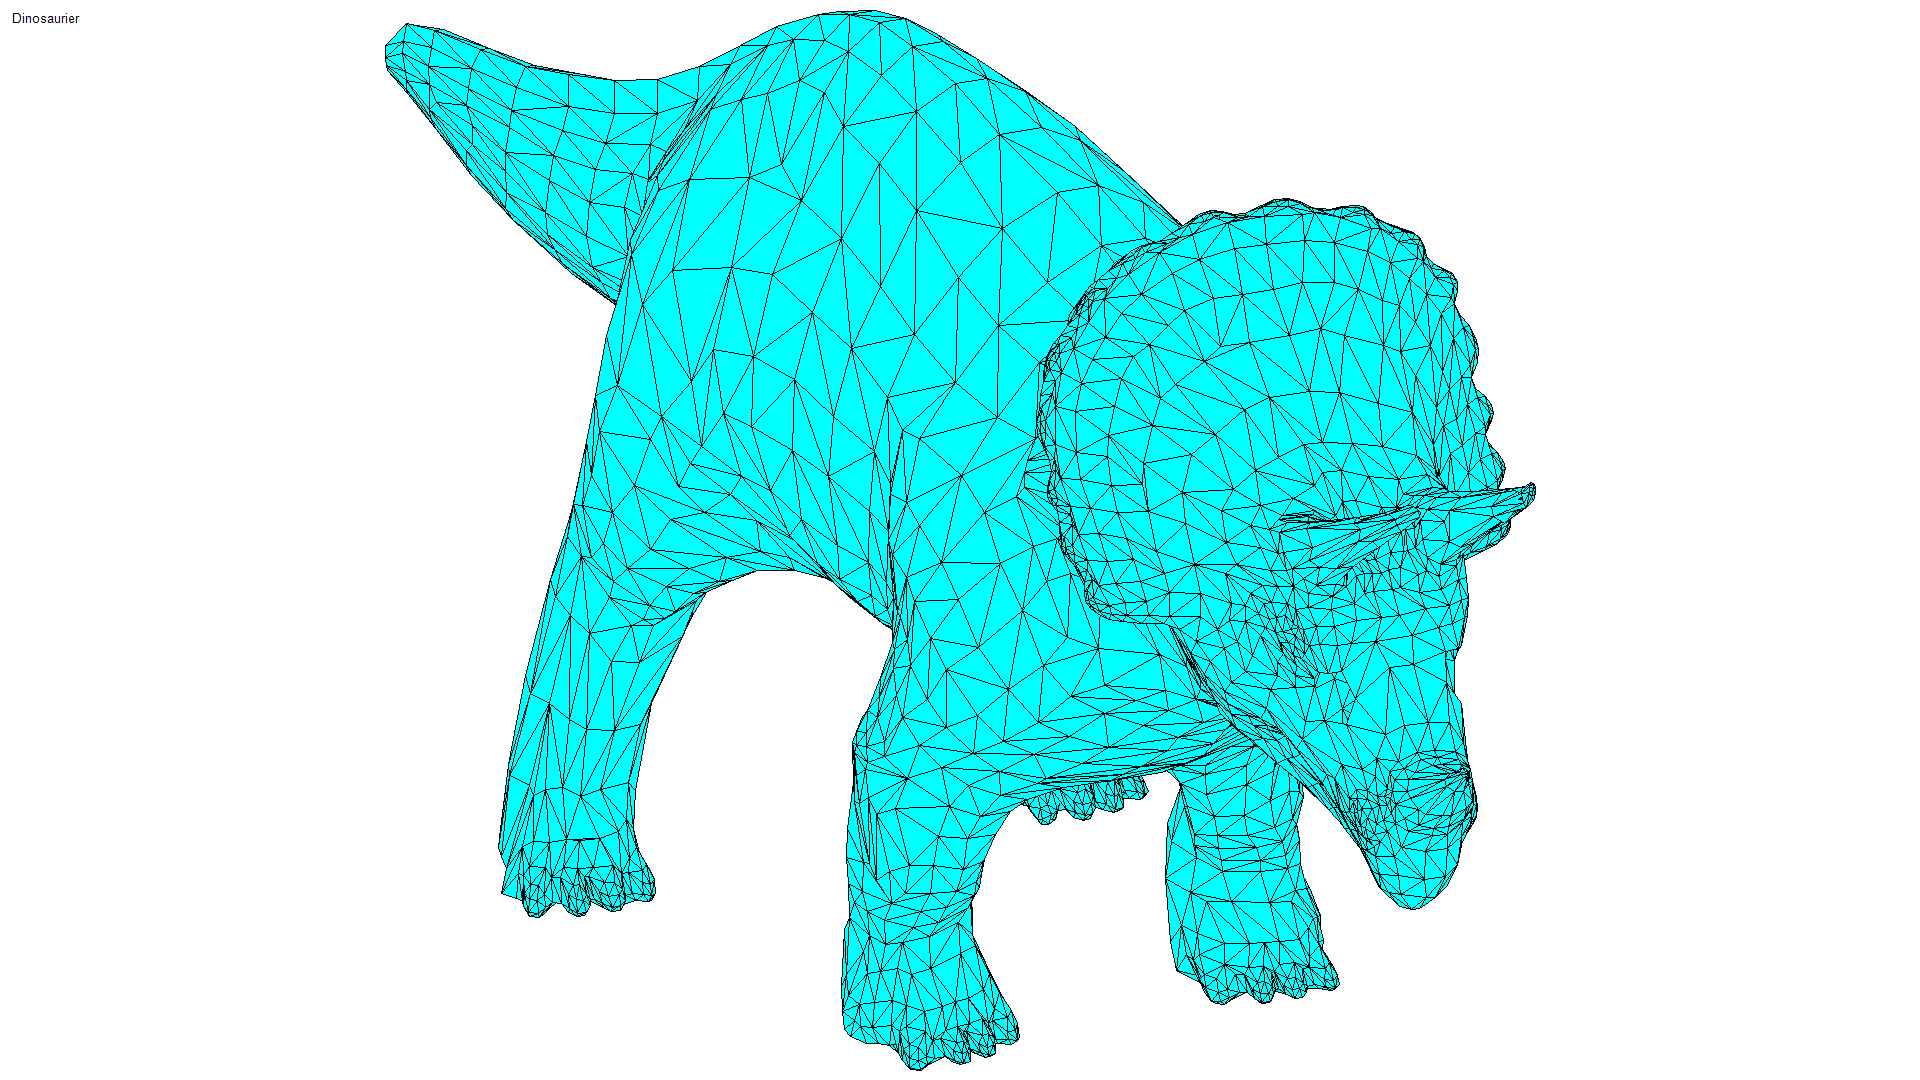
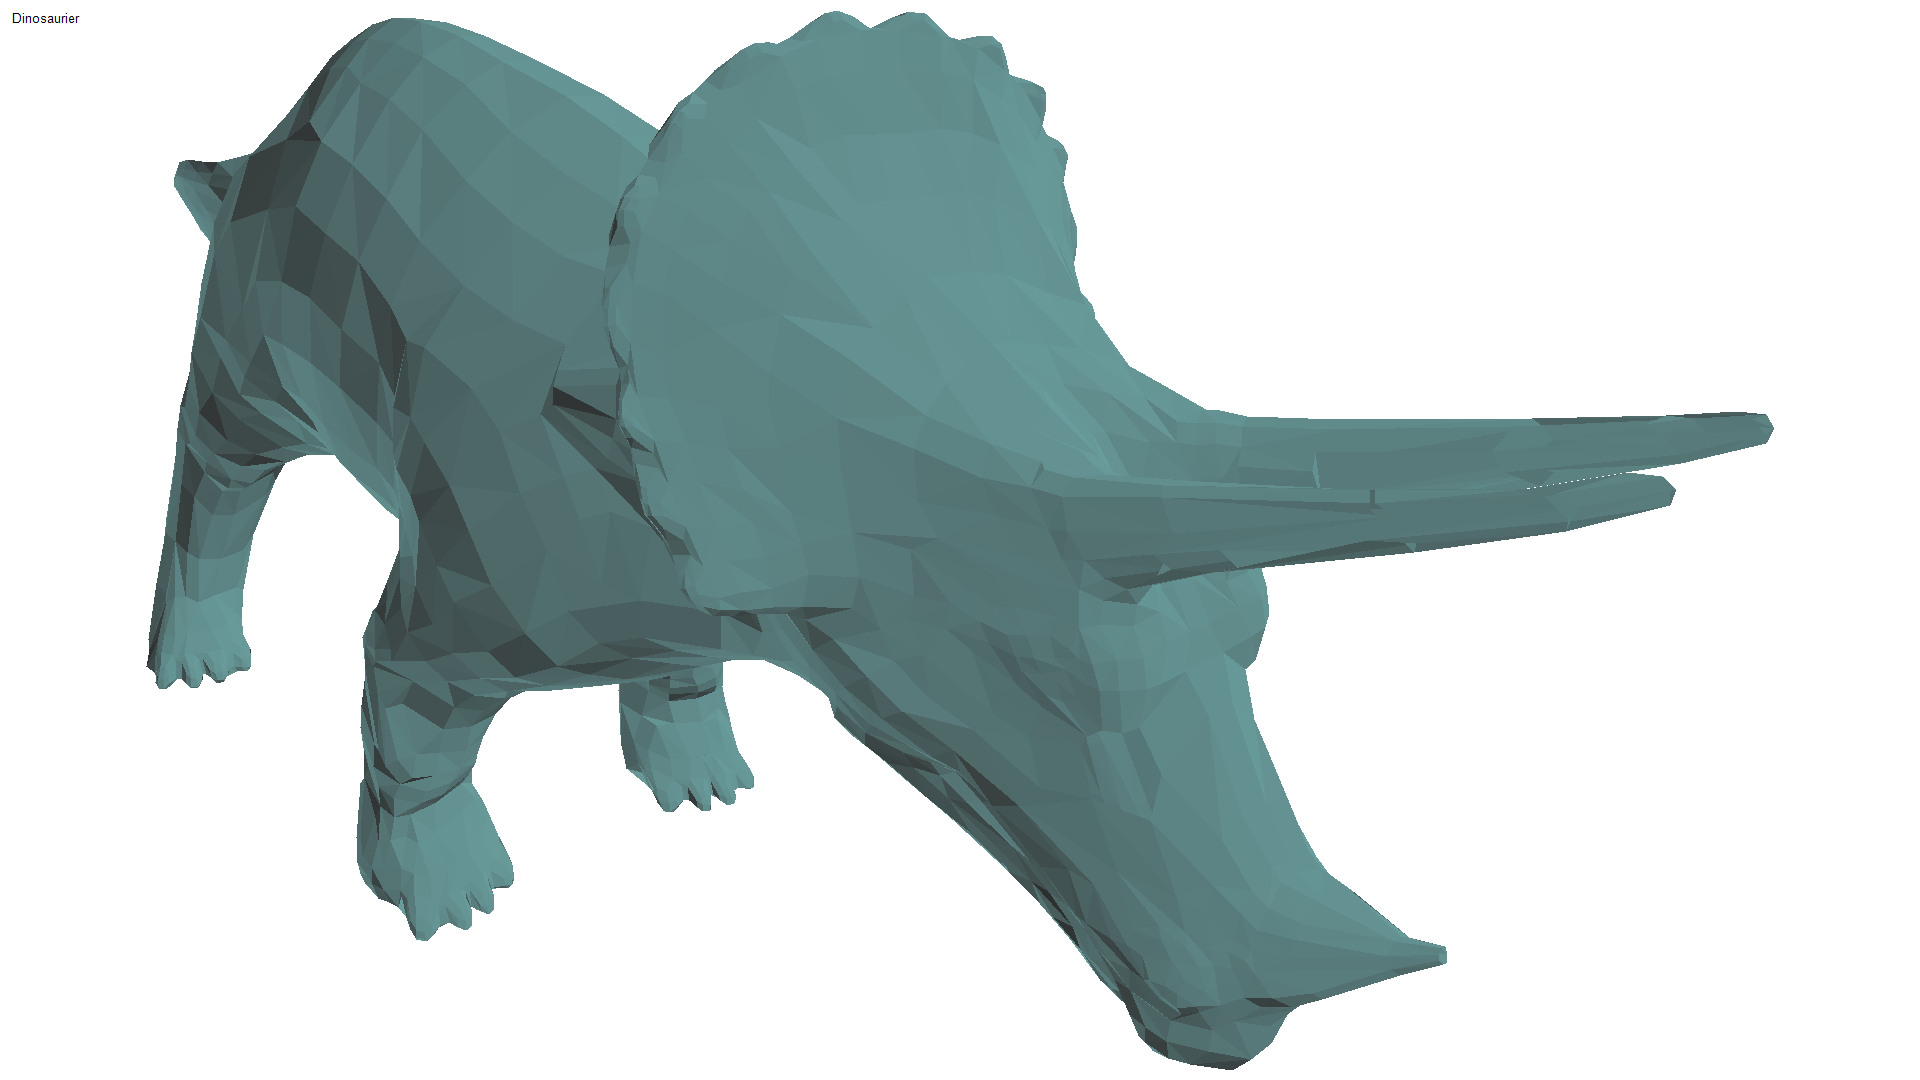
Play around with light, fix Abs bug

diff --git a/FEViewConsole/Program.cs b/FEViewConsole/Program.cs
@@ -14,6 +14,18 @@ namespace FEViewConsole
             View view = new View();
             view.transformation = view.transformation * new Transformation(-20, View.Axis.X_AXIS);
             view.transformation = view.transformation * new Transformation(-30, View.Axis.Y_AXIS);
+            view.mode = View.Mode.SHADOW_ON;
+
+            view.perspectiveProjection = true;
+            view.projectionCenterZ = 1000.0;
+            view.projectionPictureZ = -300.0;
+
+            view.lightPositionX = 1000.0;
+            view.lightPositionY = 1000.0;
+            view.lightPositionZ = 1000.0;
+            view.iqd = 0.2;
+            view.specular = 0.2;
+            view.specularExponent = 0.7;
 
             int width = 1920;
             int height = 1080;
@@ -205,8 +217,9 @@ namespace FEViewConsole
                         vectorN = vectorA % vectorB;
                         vectorN.normalize();
 
+                        double bas = Math.Abs(2 * (vectorN * vectorL) + vectorV * vectorL);
                         double rest = Math.Abs(view.specular *
-                            Math.Pow(Math.Abs(2 * (vectorN * vectorL) + vectorV * vectorL), view.specularExponent));
+                            Math.Pow(bas, view.specularExponent));
 
                         int r = Convert.ToInt32((view.iqd * Math.Abs(vectorN * vectorL) + view.ambientR) * view.surfaceColor.R + rest * 255);
                         int g = Convert.ToInt32((view.iqd * Math.Abs(vectorN * vectorL) + view.ambientG) * view.surfaceColor.G + rest * 255);

diff --git a/FEViewUtil/Vector.cs b/FEViewUtil/Vector.cs
@@ -59,10 +59,10 @@ namespace FEViewUtil
 
         public static double operator *(Vector v1, Vector v2)
         {
-            return Math.Sqrt(
+            return Math.Sqrt(Math.Abs(
                 v1.x * v2.x +
                 v1.y * v2.y +
-                v1.z * v2.z);
+                v1.z * v2.z));
         }
 
         public static Vector operator %(Vector v1, Vector v2)
